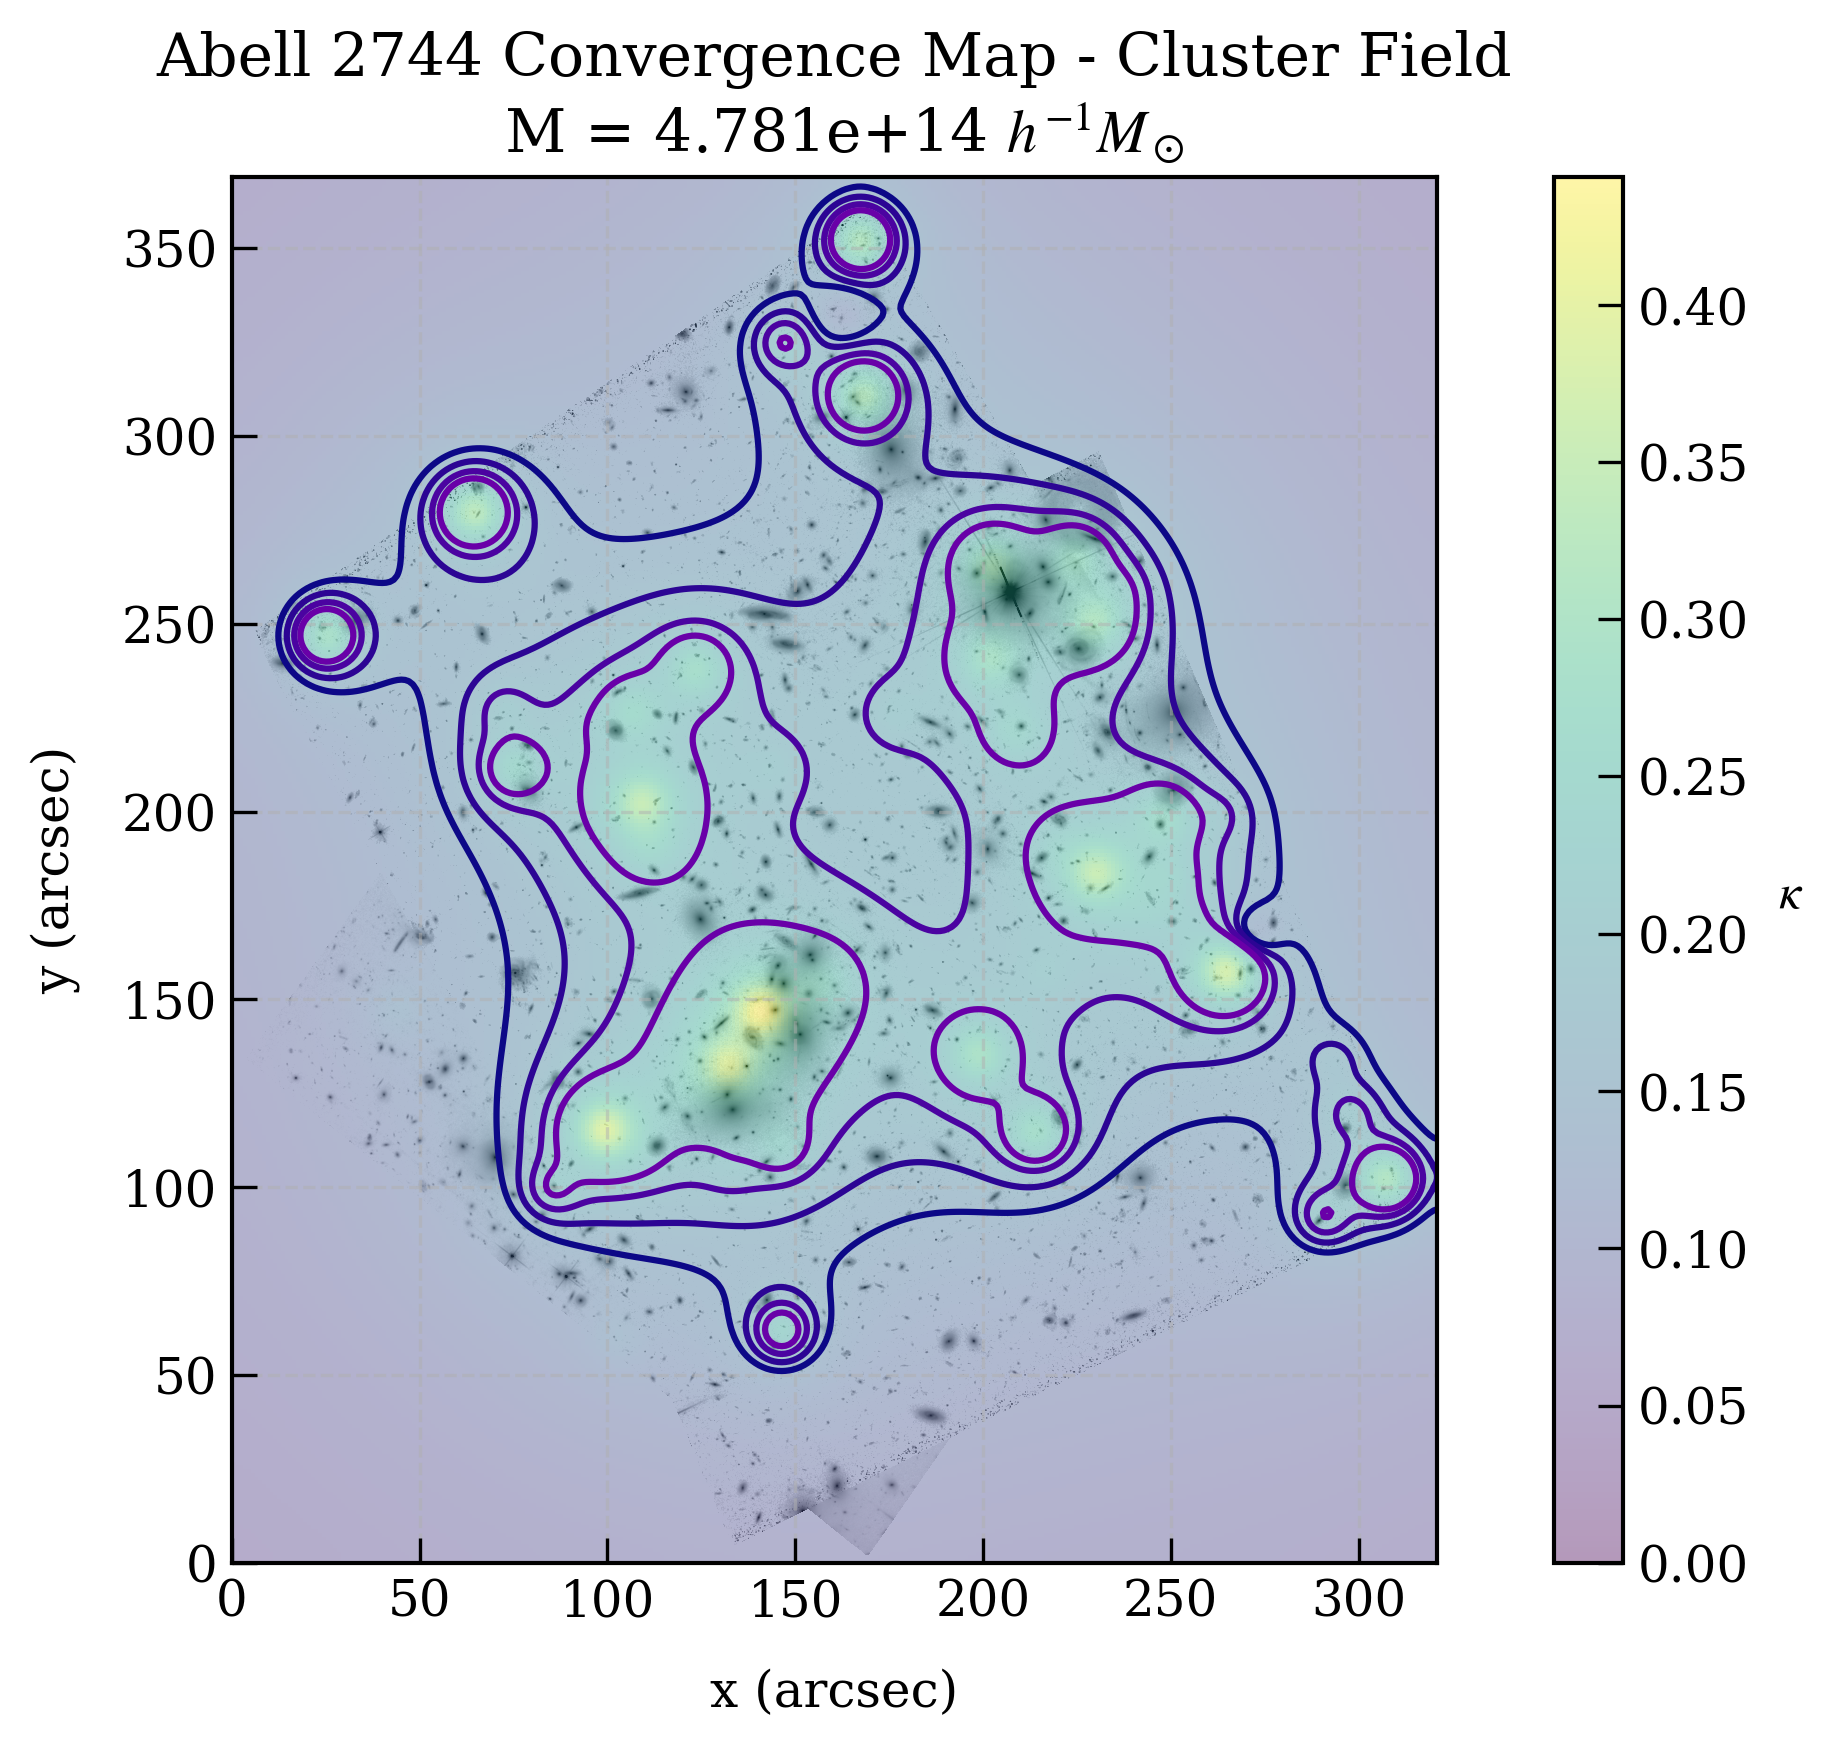
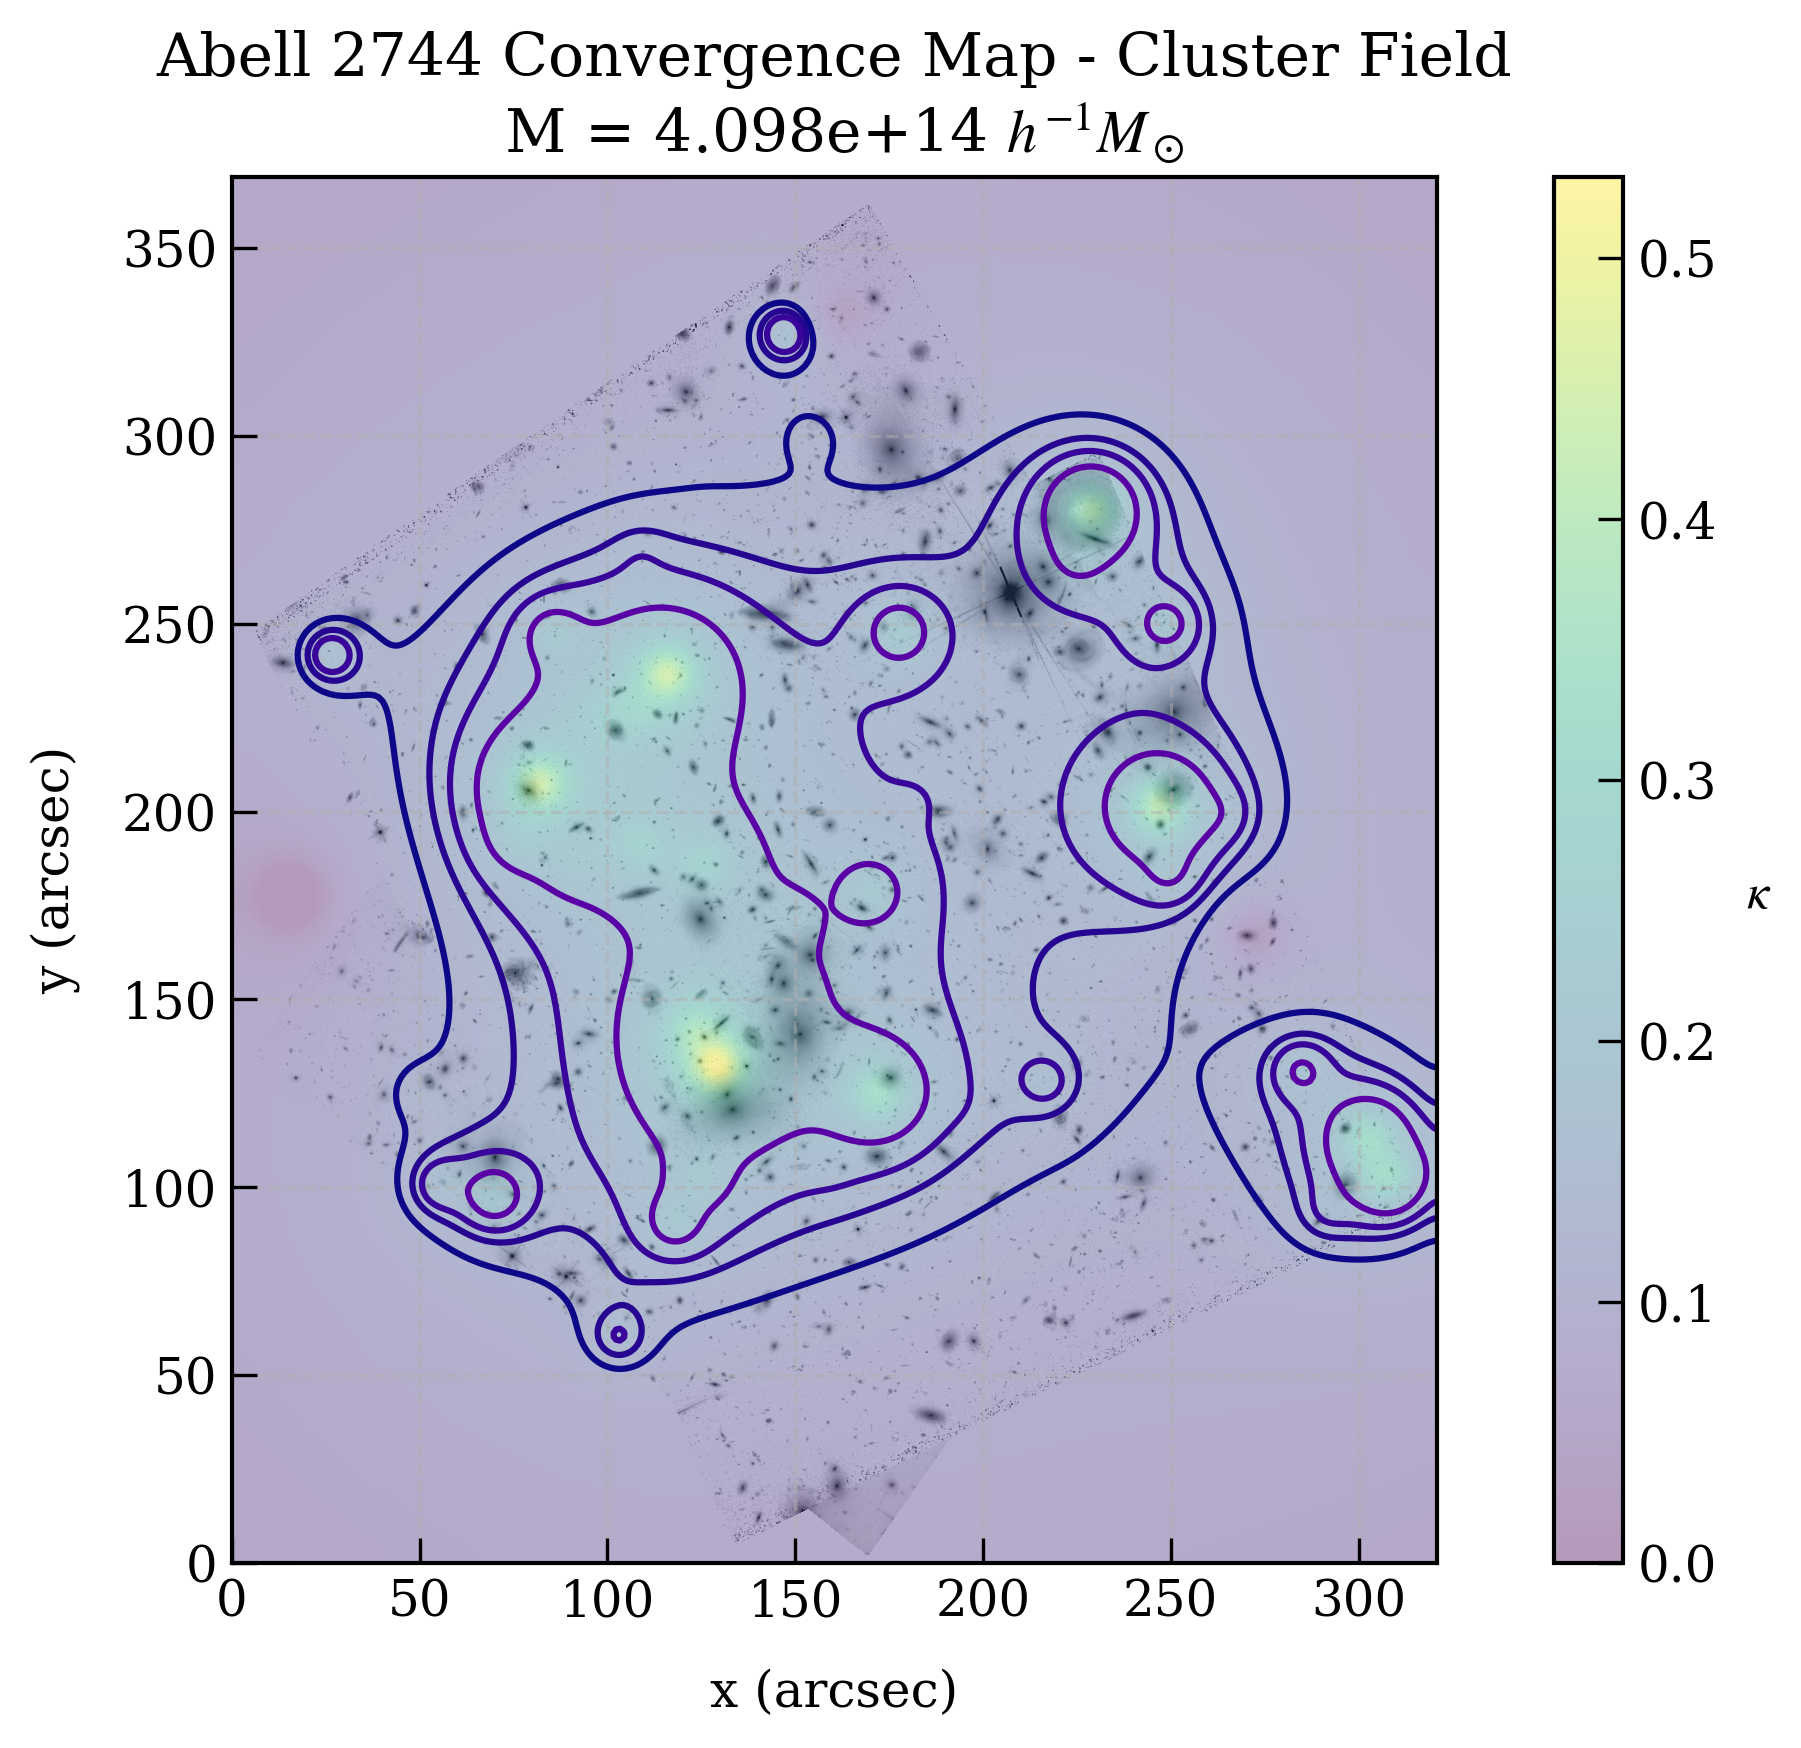
Add second flexion as signal

diff --git a/pipeline.py b/pipeline.py
@@ -8,21 +8,27 @@ import scipy.optimize as opt
 class Source:
     # Class to store source information. Each source has a position (x, y) 
     # and ellipticity (e1, e2) and flexion (f1, f2)
-    def __init__(self, x, y, e1, e2, f1, f2, sigs, sigf):
+    def __init__(self, x, y, e1, e2, f1, f2, g1, g2, sigs, sigf, sigg):
         self.x = x
         self.y = y
         self.e1 = e1
         self.e2 = e2
         self.f1 = f1
         self.f2 = f2
+        self.g1 = g1
+        self.g2 = g2
         self.sigs = sigs
         self.sigf = sigf
+        self.sigg = sigg
 
 
     def filter_sources(self, a, max_flexion=0.5):
         # Make cuts in the source data based on size and flexion
         valid_indices = (np.abs(self.f1) <= max_flexion) & (np.abs(self.f2) <= max_flexion)
-        self.x, self.y, self.e1, self.e2, self.f1, self.f2 = self.x[valid_indices], self.y[valid_indices], self.e1[valid_indices], self.e2[valid_indices], self.f1[valid_indices], self.f2[valid_indices]
+        self.x, self.y = self.x[valid_indices], self.y[valid_indices]
+        self.e1, self.e2 = self.e1[valid_indices], self.e2[valid_indices]
+        self.f1, self.f2 = self.f1[valid_indices], self.f2[valid_indices]
+        self.g1, self.g2 = self.g1[valid_indices], self.g2[valid_indices]
         return valid_indices
 
 
@@ -76,11 +82,15 @@ class Source:
             sinphi = dy/r
             cos2phi = cosphi*cosphi-sinphi*sinphi
             sin2phi = 2*cosphi*sinphi
+            cos3phi = cosphi*cosphi*cosphi - 3*cosphi*sinphi*sinphi
+            sin3phi = 3*cosphi*cosphi*sinphi - sinphi*sinphi*sinphi
       
             self.e1 += -lenses.te[i]/(2*r)*cos2phi
             self.e2 += -lenses.te[i]/(2*r)*sin2phi
             self.f1 += -dx*lenses.te[i]/(2*r*r*r)
             self.f2 += -dy*lenses.te[i]/(2*r*r*r)
+            self.g1 += (3 * lenses.te[i]) / (2 * r**2) * cos3phi
+            self.g2 += (3 * lenses.te[i]) / (2 * r**2) * sin3phi
 
 
 class Lens:
@@ -97,7 +107,9 @@ class Lens:
         # via local minimization
         max_attempts = 1
         for i in range(len(self.x)):
-            one_source = Source(sources.x[i], sources.y[i], sources.e1[i], sources.e2[i], sources.f1[i], sources.f2[i], sources.sigs[i], sources.sigf[i])
+            one_source = Source(sources.x[i], sources.y[i], 
+                                sources.e1[i], sources.e2[i], sources.f1[i], sources.f2[i], sources.g1[i], sources.g2[i],
+                                sources.sigs[i], sources.sigf[i], sources.sigg[i])
             guess = [self.x[i], self.y[i], self.te[i]] # Class is already initialized with initial guesses
             best_result = None
             best_params = guess
@@ -133,6 +145,8 @@ class Lens:
         i = 0
         while i < len(self.x):
             for j in range(i+1, len(self.x)):
+                # Check every pair of lenses
+                # If they are too close, merge them
                 distance = np.sqrt((self.x[i] - self.x[j])**2 + (self.y[i] - self.y[j])**2)
                 if distance < merger_threshold:
                     weight_i, weight_j = self.te[i], self.te[j]
@@ -238,8 +252,10 @@ def createSources(lenses,ns=1,randompos=True,sigf=0.01,sigs=0.1,xmax=5):
     e2data = np.random.normal(0,sigs,ns)
     f1data = np.random.normal(0,sigf,ns)
     f2data = np.random.normal(0,sigf,ns)
+    g1data = np.random.normal(0,sigf,ns)
+    g2data = np.random.normal(0,sigf,ns)
 
-    sources = Source(x, y, e1data, e2data, f1data, f2data, sigs*np.ones(ns), sigf*np.ones(ns))
+    sources = Source(x, y, e1data, e2data, f1data, f2data, g1data, g2data, sigs*np.ones(ns), sigf*np.ones(ns), sigf*np.ones(ns))
     # Apply the lensing effects of the lenses
     sources.apply_lensing_effects(lenses)
 
@@ -289,17 +305,21 @@ def eR_penalty_function(eR, lower_limit=-20.0, upper_limit=20.0, lambda_penalty_
 
 
 def calc_degrees_of_freedom(sources, lenses):
-    dof = 4 * len(sources.x) - 3 * len(lenses.x)
+    dof = 6 * len(sources.x) - 3 * len(lenses.x)
     if dof <= 0:
         return np.inf
     return dof
 
 
-def calc_raw_chi2(sources, lenses, use_shear=True, use_flexion=True):
+def calc_raw_chi2(sources, lenses, use_shear=True, use_flexion=True, use_g_flexion=True):
     # Compute the raw chi^2 value for a given set of sources and lenses
 
     # The source clone object represents the sources after the lensing effects of our 'test' lenses
-    source_clone = Source(sources.x, sources.y, np.zeros_like(sources.e1), np.zeros_like(sources.e2), np.zeros_like(sources.f1), np.zeros_like(sources.f2), sources.sigs, sources.sigf)
+    source_clone = Source(
+        sources.x, sources.y, np.zeros_like(sources.e1), np.zeros_like(sources.e2), 
+        np.zeros_like(sources.f1), np.zeros_like(sources.f2), np.zeros_like(sources.g1), np.zeros_like(sources.g2), 
+        sources.sigs, sources.sigf, sources.sigg
+        )
     source_clone.apply_lensing_effects(lenses) 
     
     # Now we compare the lensing signals on our source_clone object to the original sources
@@ -307,10 +327,14 @@ def calc_raw_chi2(sources, lenses, use_shear=True, use_flexion=True):
     chi2e = ((source_clone.e2 - sources.e2) / sources.sigs) ** 2
     chi1f = ((source_clone.f1 - sources.f1) / sources.sigf) ** 2
     chi2f = ((source_clone.f2 - sources.f2) / sources.sigf) ** 2
+    chi1g = ((source_clone.g1 - sources.g1) / sources.sigg) ** 2
+    chi2g = ((source_clone.g2 - sources.g2) / sources.sigg) ** 2
+
 
     shear_chi2 = (chi1e + chi2e) * use_shear #Check whether this run is using shear
     flexion_chi2 = (chi1f + chi2f) * use_flexion #Check whether this run is using flexion
-    chi2 = np.sum(shear_chi2 + flexion_chi2) 
+    g_flexion_chi2 = (chi1g + chi2g) * use_g_flexion #Check whether this run is using g_flexion
+    chi2 = np.sum(shear_chi2 + flexion_chi2 + g_flexion_chi2) 
 
     penalty = 0
     
@@ -342,7 +366,8 @@ def chi2wrapper(guess, params):
 def chi2wrapper2(guess, params):
     # Wrapper function for chi2 to allow constrained minimization - only the einstein radii are allowed to vary
     lenses = Lens(params[0], params[1], guess, np.empty_like(params[0]))
-    return calc_raw_chi2(params[2],lenses, params[3], params[4])
+    dof = calc_degrees_of_freedom(params[2], lenses)
+    return calc_raw_chi2(params[2],lenses, params[3], params[4]) / dof - 1
 
 
 # ------------------------------
@@ -402,7 +427,7 @@ def fit_lensing_field(sources, xmax, flags = False, use_shear=True, use_flexion=
     # If the merger threshold is too small, set it to 1
     if merger_threshold < 1:
         merger_threshold = 1
-    lenses.merge_close_lenses(merger_threshold=merger_threshold)
+    lenses.merge_close_lenses(merger_threshold=10)
     reducedchi2 = lenses.update_chi2_values(sources, use_shear, use_flexion)
     print_step_info(flags, "After Merging:", lenses, reducedchi2)
 

diff --git a/data_handler.py b/data_handler.py
@@ -102,10 +102,12 @@ def reconstruct_system(file, dx, dy, flags=False, randomize = False, use_shear=T
     xcol, ycol, acol = header.index('xs'), header.index('ys'), header.index('a') # Position terms
     qcol, phicol = header.index('q'), header.index('phi') # Shape terms
     f1col, f2col = header.index('f1'), header.index('f2') # Flexion terms
+    g1col, g2col = header.index('g1'), header.index('g2') # Shear terms
     # Extract the data - omit the header
     x, y, a = data[1:, xcol], data[1:, ycol], data[1:, acol]
     q, phi = data[1:, qcol], data[1:, phicol]
     f1, f2 = data[1:, f1col], data[1:, f2col]
+    g1, g2 = data[1:, g1col], data[1:, g2col]
 
     # Apply offsets to the x and y coordinates - this corrects for miscommunication between the pipeline and image
     x += dx 
@@ -126,6 +128,9 @@ def reconstruct_system(file, dx, dy, flags=False, randomize = False, use_shear=T
     sigaf = np.mean([np.std(a*f1), np.std(a*f2)])
     sigf = sigaf / a 
 
+    sigg = np.mean([np.std(g1), np.std(g2)])
+    sigg = np.ones_like(x) * sigg
+
     if randomize:
         # randomize the e1, e2 and f1, f2 vectors by rotating them by a random angle
         rand_angle = np.random.uniform(0, 2*np.pi, len(e1))
@@ -137,7 +142,7 @@ def reconstruct_system(file, dx, dy, flags=False, randomize = False, use_shear=T
     y -= centroid[1]
 
     # Create source object and perform the lensing fit
-    sources = pipeline.Source(x, y, e1, e2, f1, f2, sigs, sigf)
+    sources = pipeline.Source(x, y, e1, e2, f1, f2, g1, g2, sigs, sigf, sigg)
     recovered_lenses, reducedchi2 = pipeline.fit_lensing_field(sources, xmax=xmax, flags=flags, use_shear=use_shear, use_flexion=use_flexion)
 
     # Move our sourecs and lenses back to the original centroid
@@ -219,12 +224,16 @@ def reconstruct_a2744(field='cluster', randomize=False, full_reconstruction=Fals
     file_name = 'A2744_kappa_'
     file_name += 'par' if field == 'parallel' else 'clu'
     file_name += '_rand' if randomize else ''
+    file_name += '_shear' if use_shear and not use_flexion else ''
+    file_name += '_flexion' if use_flexion and not use_shear else ''
 
     title = 'Abell 2744 Convergence Map - '
     title += 'Parallel Field' if field == 'parallel' else 'Cluster Field'
     title += ' - Randomized' if randomize else ''
     if field == 'cluster':
         title += '\n M = ' + f'{mass:.3e}' + r' $h^{-1} M_\odot$'
+    title += '\n Shear only' if use_shear and not use_flexion else ''
+    title += '\n Flexion only' if not use_shear and use_flexion else ''
 
     # Plot the convergence map
     fig, ax = plt.subplots()
@@ -336,4 +345,4 @@ def plot_er_dist(merge_radius=1):
 
 
 if __name__ == '__main__':
-    reconstruct_a2744(field='cluster', randomize=False, full_reconstruction=False, use_shear=True, use_flexion=True)
+    reconstruct_a2744(field='cluster', randomize=False, full_reconstruction=True, use_shear=True, use_flexion=True)

diff --git a/test_pipeline.py b/test_pipeline.py
@@ -121,12 +121,12 @@ def visualize_pipeline_steps(Nlens, Nsource, xmax, use_shear=True, use_flexion=T
     reducedchi2 = lenses.update_chi2_values(sources, use_shear, use_flexion)
     _plot_results(xmax, lenses, sources, true_lenses, reducedchi2, 'Initial Lens Positions', ax=axarr[0,0])
 
-    '''
+    
     # Step 2: Optimize guesses with local minimization
     lenses.optimize_lens_positions(sources)
     reducedchi2 = lenses.update_chi2_values(sources, use_shear, use_flexion)
     _plot_results(xmax, lenses, sources, true_lenses, reducedchi2, 'Optimized Lens Positions', ax=axarr[0,1], legend=False)
-    '''
+    
     
     # Step 3: Filter out lenses that are too far from the source population
     lenses.filter_lens_positions(sources, xmax)
@@ -210,7 +210,7 @@ def assess_number_recovered(Nlens, Nsource, xmax, sigf=0.01, sigs=0.1, lens_rand
 
 
 if __name__ == '__main__':
-    visualize_pipeline_steps(1, 100, 50, use_shear=True, use_flexion=True)
+    visualize_pipeline_steps(2, 100, 50, use_shear=True, use_flexion=True)
     raise ValueError('Stop here')
 
     # Generate random realizations
